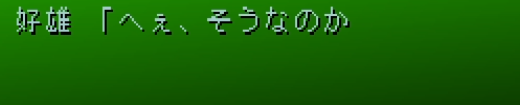
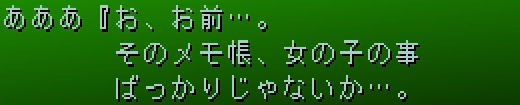
messing around, mostly

diff --git a/main.py b/main.py
@@ -1,16 +1,47 @@
 import time
 import PIL.Image
+import numpy as np
 
 from manga_ocr import MangaOcr
-from screenshot import capture_pixels
+from screenshot import get_window_by_title
+from overlay import OverlayWindow
+from image_processing import convert_emerald_textbox_to_black_and_white
 
+window = OverlayWindow(670, 480)
 mocr = MangaOcr()
 
-# img = PIL.Image.open('data/ss4.png')
 for i in range(10000):
-    img = capture_pixels("VLC")
-    img = img.crop((65, 420, 65 + 520, 420 + 105))
-    text = mocr(img)
+    tik = time.perf_counter_ns()
+    img_ss = get_window_by_title("gameplay_emerald.mp4")
+    img_tb = img_ss.crop((60, 370, 60 + 520, 370 + 105))
 
-    #print with timestamp, miliseconds
-    print(i, time.strftime("%H:%M:%S") + "." + str(int(round(time.time() * 1000))) + " " + text)
+    img_tb_bw = convert_emerald_textbox_to_black_and_white(img_tb)
+
+    # img_ss.save("data/tmp_window.png")
+    # img_tb.save("data/tmp_text.png")
+    # img_tb_bw.save("data/tmp_text_bw.png")
+
+    line_1 = img_tb_bw.crop((110, 0,  520, 0 + 35))
+    line_2 = img_tb_bw.crop((110, 35, 520, 35 + 35))
+    line_3 = img_tb_bw.crop((110, 70, 520, 70 + 35))
+
+    for line in [line_1, line_2, line_3]:
+        line_np = np.array(line.convert('RGB'))
+        red, green, blue = line_np.T
+        if np.all(red == 255):
+            continue
+        rightmost_black = np.max(np.where(red != 255)[0])
+        line = line.crop((0, 0, rightmost_black + 10, 35))
+
+    text = []
+    for i, line in enumerate([line_1, line_2, line_3]):
+        _txt = mocr(line)
+        _txt = _txt if _txt != "そういえば、" else ""
+        text.append(_txt)
+
+        # line.save(f"data/tmp_line_{i}.png")
+    text = "\n".join(text)
+
+    window.update(text)
+    tok = time.perf_counter_ns()
+    print(f"#{i} ; {time.strftime('%H:%M:%S')} ; {(tok - tik) / 1000000:.2f} ms ; \n{text}")

diff --git a/sketch.py b/sketch.py
@@ -12,7 +12,12 @@ mocr = MangaOcr()
 for i in range(10):
     img_ss = get_window_by_title("gameplay_emerald.mp4")
     img_tb = img_ss.crop((60, 370, 60 + 520, 370 + 105))
-    text = mocr(img_tb)
 
-    img_ss.save("data/tmp_window.png")
-    img_tb.save("data/tmp_text.png")
+    img_tb_np = np.array(img_tb.convert('RGBA'))
+    red, green, blue, alpha = img_tb_np.T
+    bg_pixels = (red < 70) & (blue < 70)
+    img_tb_np[..., :-1][bg_pixels.T] = (0, 0, 0)
+    img_tb_np[..., :-1] = 255 - img_tb_np[..., :-1]
+    img_tb = Image.fromarray(img_tb_np)
+
+    img_tb.show()

diff --git a/image_processing.py b/image_processing.py
@@ -1,0 +1,10 @@
+import numpy as np
+from PIL import Image
+
+def convert_emerald_textbox_to_black_and_white(img_tb):
+    img_tb_np = np.array(img_tb.convert('RGBA'))
+    red, green, blue, alpha = img_tb_np.T
+    bg_pixels = (red < 70) & (blue < 70)
+    img_tb_np[..., :-1][bg_pixels.T] = (0, 0, 0)
+    img_tb_np[..., :-1] = 255 - img_tb_np[..., :-1]
+    return Image.fromarray(img_tb_np)

diff --git a/ocr.py b/ocr.py
@@ -5,7 +5,14 @@ from manga_ocr import MangaOcr
 
 mocr = MangaOcr()
 
-img = PIL.Image.open('data/ss4.png')
-img = img.crop((60, 350, 580, 455))
+img = PIL.Image.open('data/caso_2/text_1.png')
+text = mocr(img)
+print(text)
+
+img = PIL.Image.open('data/caso_2/text_2.png')
+text = mocr(img)
+print(text)
+
+img = PIL.Image.open('data/caso_2/text_3.png')
 text = mocr(img)
 print(text)

diff --git a/screenshot.py b/screenshot.py
@@ -50,7 +50,6 @@ def get_window_by_title(window_title):
     # or just the client area.
     result = windll.user32.PrintWindow(hwnd, saveDC.GetSafeHdc(), 3)
     # result = windll.user32.PrintWindow(hwnd, saveDC.GetSafeHdc(), 0)
-    print(result)
 
     bmpinfo = saveBitMap.GetInfo()
     bmpstr = saveBitMap.GetBitmapBits(True)
